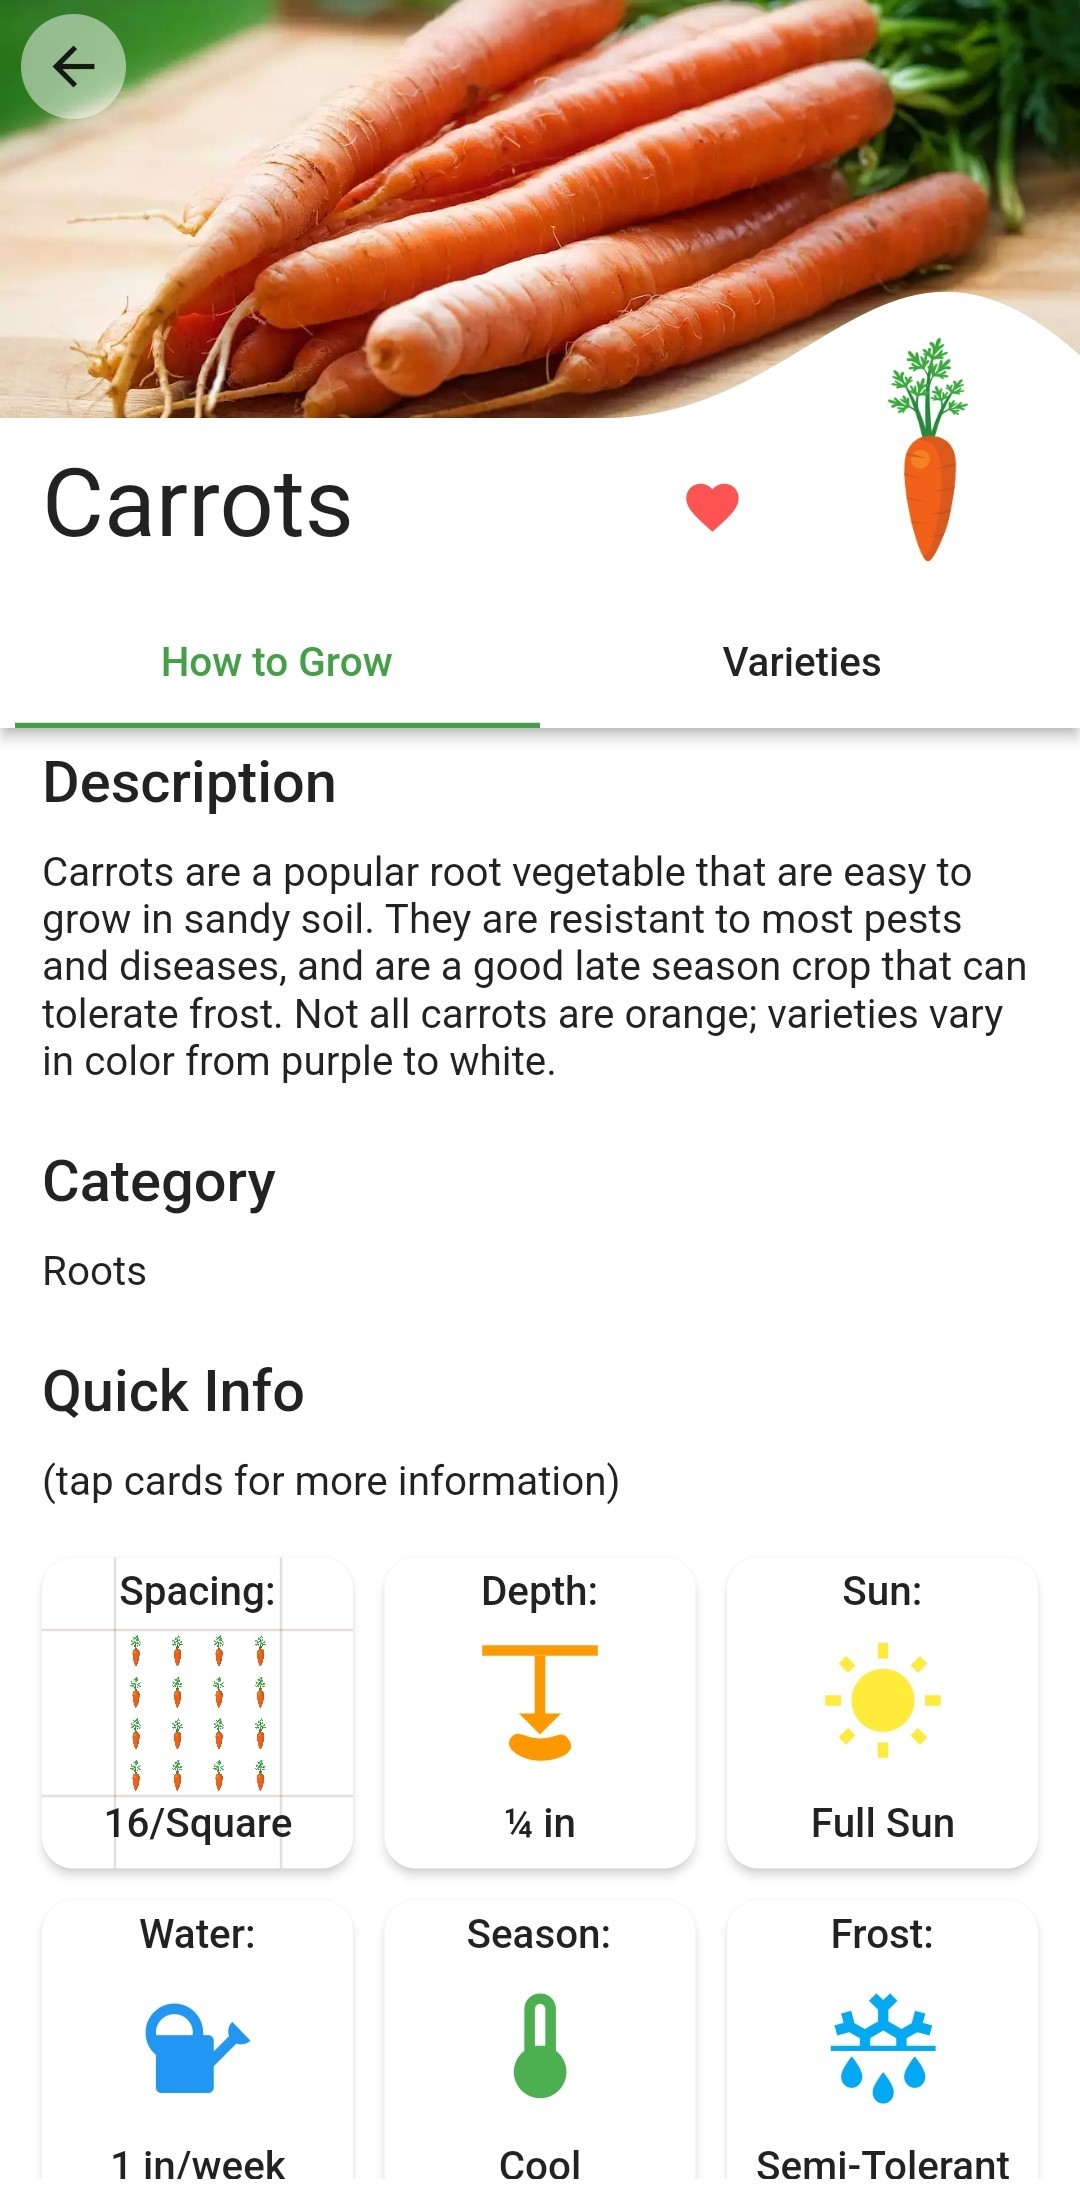
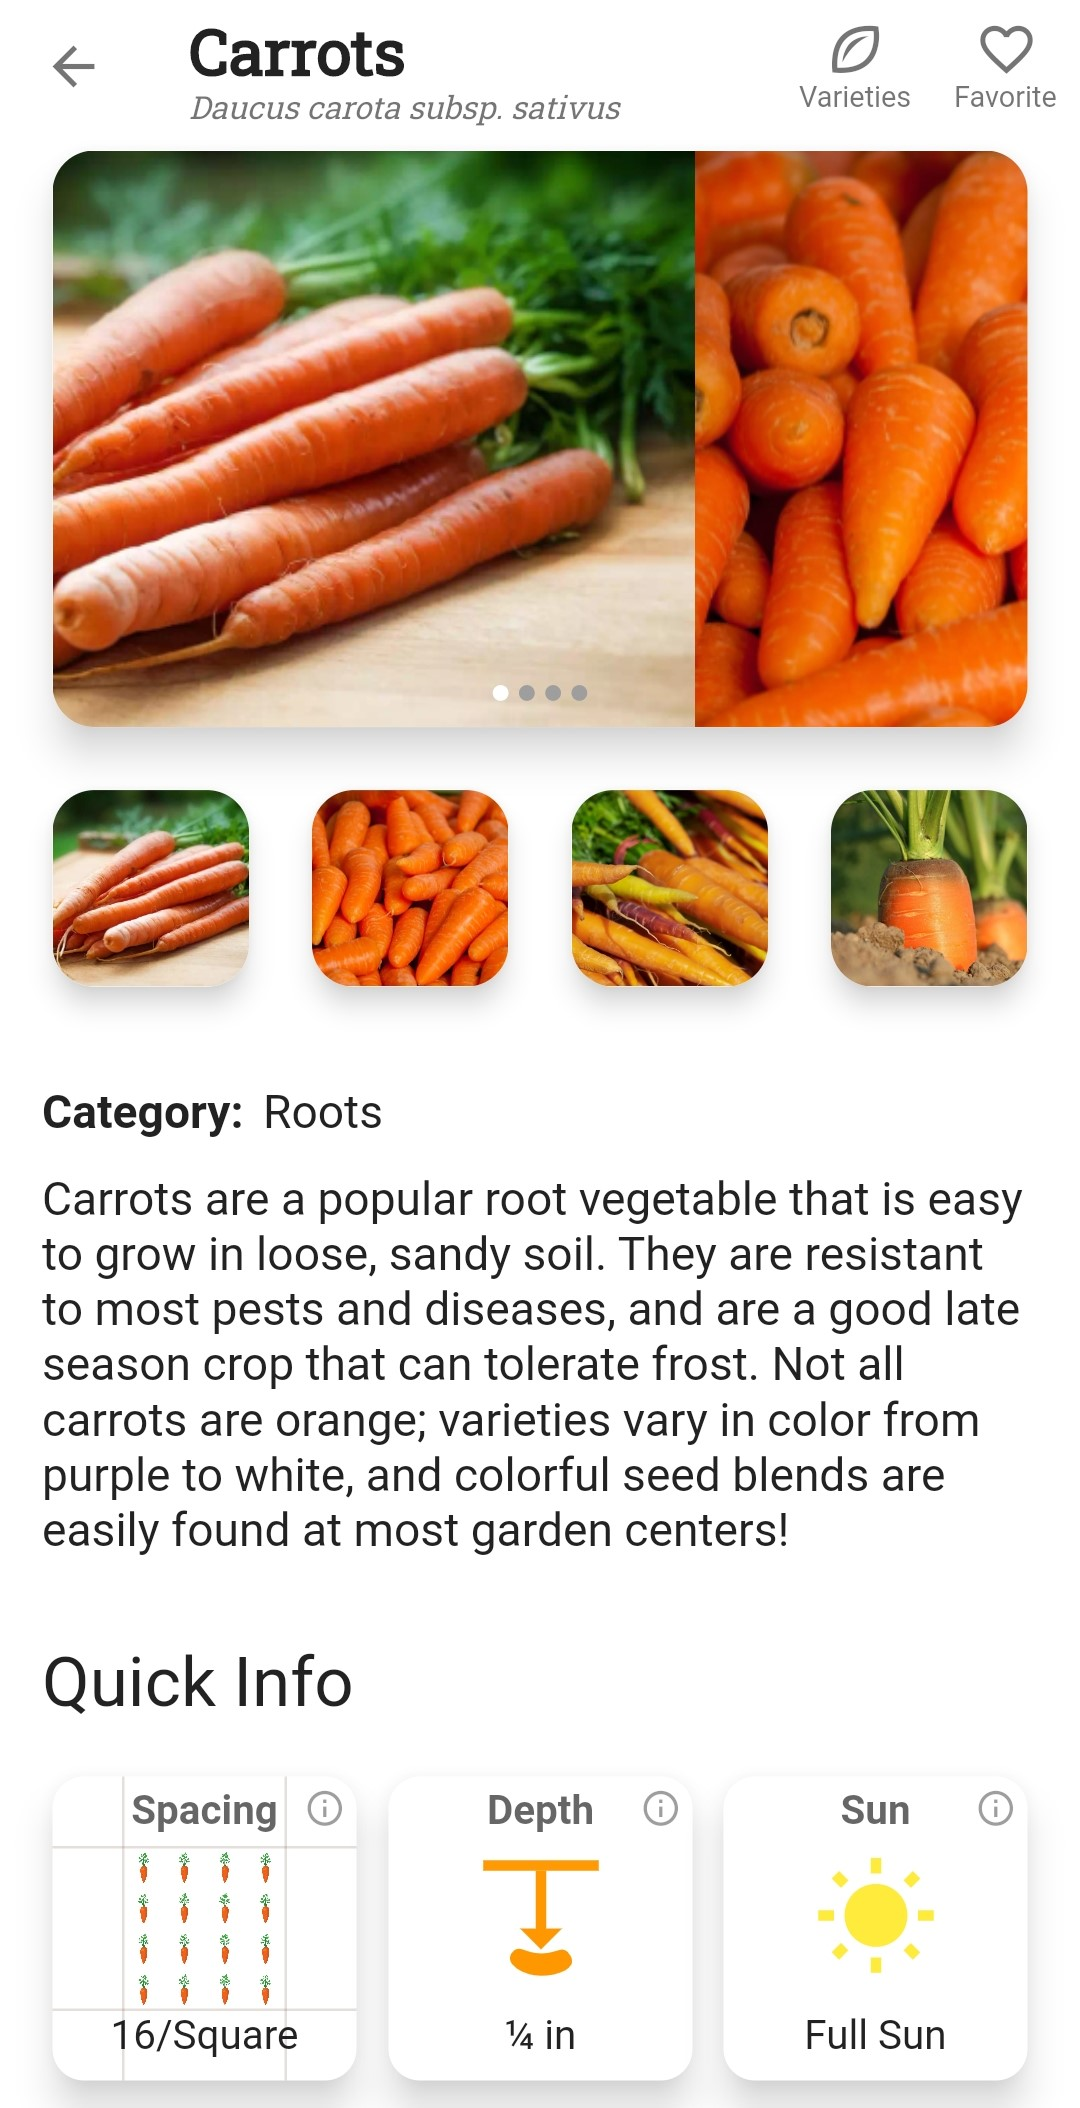
UI- Update How to Find

diff --git a/content/en/docs/300_plant-information/301_how-to-grow/index.md b/content/en/docs/300_plant-information/301_how-to-grow/index.md
@@ -10,11 +10,11 @@ Planter has plant care information for many plants, and new plants are being add
 {{< alert icon="🌿" context="info" text="See [**Where can I find plant care information?**](../find-plants) to learn where to find plant care in Planter" />}}
 
 #### Category
-Which group the plant belongs to in Planter.<br /><br />
-{{< screenshot Carrots-description.jpg "Screenshot of carrots description" >}}
+Which group the plant belongs to in Planter.
 
 #### Description
-A brief overview of the plant and tips to grow it successfully.
+A brief overview of the plant and tips to grow it successfully.<br /><br />
+{{< screenshot Carrots-description.jpg "Screenshot of carrots description" >}}
 
 #### Quick Info
 General planting and care information. Many of the **Quick Info** cards display additional details when selected:<br /><br />
